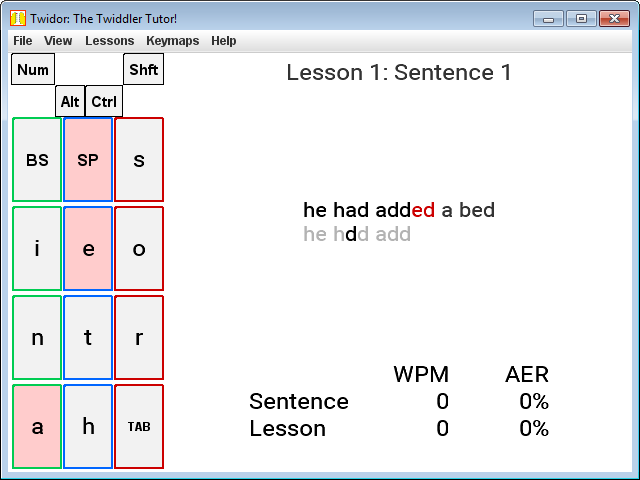
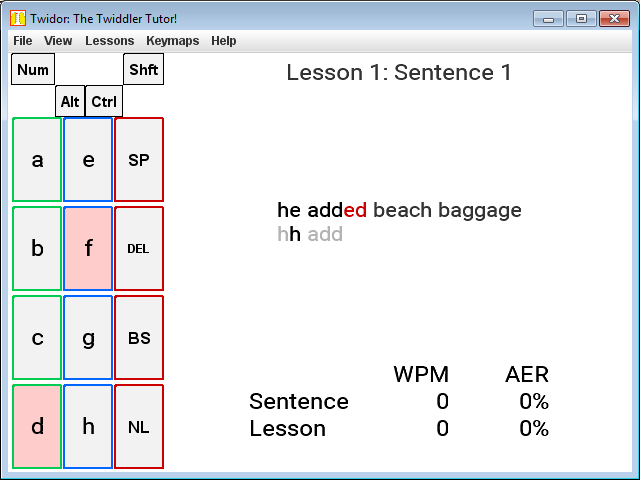
simplify singe/SCC/MCC illustration

diff --git a/src/FingerPanel.java b/src/FingerPanel.java
@@ -39,6 +39,7 @@ import java.awt.*;
 import javax.swing.*;
 import javax.swing.border.Border;
 import java.util.Vector;
+import java.util.HashMap;
 import java.net.URL;
 import java.lang.Math;
 
@@ -65,8 +66,7 @@ public class FingerPanel extends TwiddlerSubPanel implements  TwidorConstants {
 			font = FONT_KEYPAD;
 		if( foreground == null )
 			foreground = TEXT_DEFAULT;
-		JLabel label;
-		label = new JLabel(text);
+		JLabel label = new JLabel(text);
 		label.setFont(font);
 		label.setForeground(foreground);
 		label.setBackground(Color.WHITE);
@@ -91,7 +91,7 @@ public class FingerPanel extends TwiddlerSubPanel implements  TwidorConstants {
 	 * @param boolean the orientation
 	 * @param KeyMap the KeyMap to write on it
 	 */
-	public FingerPanel (boolean orient, KeyMap keys, boolean visibleKeys, boolean show2KeyChords) {
+	public FingerPanel (boolean orient, KeyMap keys, boolean visibleKeys, boolean show2KeyChords, boolean show_MCC ) {
 		if (bDEBUG) System.out.println("FingerPanel: creating panel");
 		initButtons();
 		setBackground(twiddlerBackground);
@@ -99,7 +99,7 @@ public class FingerPanel extends TwiddlerSubPanel implements  TwidorConstants {
 
 		/* horizontal direction to arrange the keys */
 		ComponentOrientation keyOrient = ComponentOrientation.RIGHT_TO_LEFT;
-		if (orient) {
+		if (! orient) {
 			keyOrient = ComponentOrientation.LEFT_TO_RIGHT;
 		}
 
@@ -119,42 +119,50 @@ public class FingerPanel extends TwiddlerSubPanel implements  TwidorConstants {
 								subPanel.setLayout(new GridLayout(4, 1, 1, 1));
 								subPanel.setBackground(twiddlerBackground);
 								for (int chordFinger = 0; chordFinger < 4; chordFinger++) { // anchor finger
-									if (finger != chordFinger) {
+									if (finger >= chordFinger) {
+										add_label( subPanel, twiddlerBackground,  FONT_KEYPAD, "z");
+									} else {
 										int buttons = KeyElement.buttonMask(finger, fingerCol);
 										buttons |= KeyElement.buttonMask(chordFinger, chordCol);
 										KeyElement keyElement = keys.getKeyByButtons(buttons);
-										// Color color = keyRed;
-										Border border = redBorder;
-										if (chordCol == 1) {
-											// color  = keyBlue;
-											border = blueBorder;
-										}
-										else if (chordCol == 2) {
-											// color  = keyGreen;
-											border = greenBorder;
-										}
-										JLabel label = new JLabel();
-										label.setFont(FONT_KEYPAD);
-										label.setHorizontalAlignment(JLabel.CENTER);
-										label.setBorder(border);
-										label.setForeground( TEXT_DEFAULT );
-										if (keyElement != null) {
-											String keyLabel = keyElement.getLabel();
-											keyLabel = keyLabel.substring(0,Math.min(3,keyLabel.length()));
-											Font font = FONT_LABEL; // length = 1
-											if (keyLabel.length() == 2) {
-												font = FONT_LABEL2;
-											} else if (keyLabel.length() > 2) {
-												font = FONT_MACRO;
-											}
-											label.setFont(font);
-											label.setText(keyLabel);
-											subPanel.add(label);
-										} else {
+										if (keyElement == null) {
 											add_label( subPanel, twiddlerBackground, FONT_KEYPAD, "");
 										}
-									} else {
-										add_label( subPanel, twiddlerBackground,  FONT_KEYPAD, "z");
+										else if ( (! show_MCC) &&
+												  ( (keyElement.getLabel().length() > 1)
+													// || ! Character.isAlphabetic(keyElement.getLabel().codePointAt(0))
+													) ) { 
+											add_label( subPanel, twiddlerBackground, FONT_KEYPAD, "");
+										} else {
+											String keyLabel = keyElement.getLabel();
+											// Color color = keyRed;
+											Border border = redBorder;
+											if (chordCol == 1) {
+												// color  = keyBlue;
+												border = blueBorder;
+											}
+											else if (chordCol == 2) {
+												// color  = keyGreen;
+												border = greenBorder;
+											}
+											JLabel label = new JLabel();
+											label.setFont(FONT_KEYPAD);
+											label.setHorizontalAlignment(JLabel.CENTER);
+											label.setBorder(border);
+											label.setForeground( TEXT_DEFAULT );
+											if (keyElement != null) {
+												keyLabel = keyLabel.substring(0,Math.min(3,keyLabel.length()));
+												Font font = FONT_LABEL; // length = 1
+												if (keyLabel.length() == 2) {
+													font = FONT_LABEL2;
+												} else if (keyLabel.length() > 2) {
+													font = FONT_MACRO;
+												}
+												label.setFont(font);
+												label.setText(keyLabel);
+												subPanel.add(label);
+											}
+										}
 									}
 								}
 								panel.add(subPanel);

diff --git a/src/Twidor.java b/src/Twidor.java
@@ -59,7 +59,7 @@ public class Twidor extends JFrame implements TwidorConstants {
 	private String currentSentence;
 	private JFileChooser fc;
 	private java.io.PrintWriter keylog;
-	private boolean twiddler_single_letter_only;
+	private boolean twiddler_show_MCC;
 
 	/**
 	 * Default Constructor.
@@ -85,7 +85,7 @@ public class Twidor extends JFrame implements TwidorConstants {
 		setTitle(windowTitle);
 		setBackground(windowBackground);
 		setResizable(windowResizable);
-		twiddler_single_letter_only = TWIDDLER_SINGLE_LETTER_ONLY;
+		twiddler_show_MCC = TWIDDLER_SHOW_MCC;
 
 		/* Root Panel Settings */
 		Container contentPane = getContentPane();
@@ -382,9 +382,9 @@ public class Twidor extends JFrame implements TwidorConstants {
 			String remainder = getSentence().substring(begin);
 
 			int limit = 0;
-			if ( twiddler_single_letter_only ) limit = 1;
+			if ( ! twiddler_show_MCC ) limit = 1;
 			match = getKeyMap().matchLargestChunk(remainder, limit);
-			if ( match == null ) { // try single capital character
+			if ( match == null ) {
 				if(Character.isUpperCase(remainder.charAt(0))) {
 					match = getKeyMap().getKey(remainder.substring(0,1).toLowerCase());
 					if ( match != null ) {
@@ -399,7 +399,6 @@ public class Twidor extends JFrame implements TwidorConstants {
 		getTwiddlerPanel().highlight(match);
 		getTypingPanel().highlight(match);
 	}
-
 	/**
 	 * sets the Input flag (whether we are recording or not)
 	 * @param boolean the new status
@@ -490,6 +489,7 @@ public class Twidor extends JFrame implements TwidorConstants {
 	public void reOrient () {
 		setVisible(false);
 		getTwiddlerPanel().reOrient();
+		getTypingPanel().remove_highlight();
 		doHighlighting();
 		pack();
 		setVisible(true);
@@ -519,8 +519,9 @@ public class Twidor extends JFrame implements TwidorConstants {
 		else if (option.equals(TWIDDLER_SHOW_THUMB_TEXT)) {
 			getTwiddlerPanel().setThumbBoardVisible(status);
 		}
-		else if (option.equals(TWIDDLER_SINGLE_LETTER_ONLY_TEXT)) {
-			twiddler_single_letter_only = status;
+		else if (option.equals(TWIDDLER_SHOW_MCC_TEXT)) {
+			twiddler_show_MCC = status;
+			getTwiddlerPanel().setShowMCC(status);
 		}
 		else if (bDEBUG) System.out.println("Unhandled option");
 

diff --git a/src/TwidorMenu.java b/src/TwidorMenu.java
@@ -80,27 +80,13 @@ public class TwidorMenu extends JMenuBar implements TwidorConstants {
 
 		Twiddler = new Vector<>();
 		menu = new JMenu("View");
-		jmItem = jcheckItem(TWIDDLER_SHOW_TEXT, TWIDDLER_SHOW);
-		Twiddler.add(jmItem);
-		menu.add(jmItem);
-		jmItem = jcheckItem(TWIDDLER_SHOW_2KEY_TEXT, TWIDDLER_SHOW_2KEY);
-		Twiddler.add(jmItem);
-		menu.add(jmItem);
-		jmItem = jcheckItem(TWIDDLER_MIRROR_TEXT, TWIDDLER_MIRROR);
-		Twiddler.add(jmItem);
-		menu.add(jmItem);
-		jmItem = jcheckItem(TWIDDLER_SHOW_LETTERS_TEXT, TWIDDLER_SHOW_LETTERS);
-		Twiddler.add(jmItem);
-		menu.add(jmItem);
-		jmItem = jcheckItem(TWIDDLER_SHOW_THUMB_TEXT, TWIDDLER_SHOW_THUMB);
-		Twiddler.add(jmItem);
-		menu.add(jmItem);
-		jmItem = jcheckItem(TWIDDLER_MIRROR_THUMB_TEXT, TWIDDLER_MIRROR_THUMB);
-		Twiddler.add(jmItem);
-		menu.add(jmItem);
-		jmItem = jcheckItem(TWIDDLER_SINGLE_LETTER_ONLY_TEXT, TWIDDLER_SINGLE_LETTER_ONLY);
-		Twiddler.add(jmItem);
-		menu.add(jmItem);
+		addJcheckItem( menu, Twiddler, TWIDDLER_SHOW_TEXT, TWIDDLER_SHOW);
+		addJcheckItem( menu, Twiddler, TWIDDLER_SHOW_THUMB_TEXT, TWIDDLER_SHOW_THUMB);
+		addJcheckItem( menu, Twiddler, TWIDDLER_SHOW_2KEY_TEXT, TWIDDLER_SHOW_2KEY);
+		addJcheckItem( menu, Twiddler, TWIDDLER_SHOW_MCC_TEXT, TWIDDLER_SHOW_MCC);
+		addJcheckItem( menu, Twiddler, TWIDDLER_SHOW_LETTERS_TEXT, TWIDDLER_SHOW_LETTERS);
+		addJcheckItem( menu, Twiddler, TWIDDLER_MIRROR_TEXT, TWIDDLER_MIRROR);
+		addJcheckItem( menu, Twiddler, TWIDDLER_MIRROR_THUMB_TEXT, TWIDDLER_MIRROR_THUMB);
 
 		add(menu);
 
@@ -157,6 +143,12 @@ public class TwidorMenu extends JMenuBar implements TwidorConstants {
 		JCheckBoxMenuItem toReturn = new JCheckBoxMenuItem(text, status);
 		toReturn.addItemListener(myEventHandler);
 		return toReturn;
+	}
+
+	private void addJcheckItem (JMenu menu, Vector <JMenuItem> menuVec, String text, boolean status) {
+		JMenuItem jmItem = jcheckItem(text, status);
+		menuVec.add(jmItem);
+		menu.add(jmItem);
 	}
 
 	/**

diff --git a/src/TwidorConstants.java b/src/TwidorConstants.java
@@ -112,7 +112,7 @@ public interface TwidorConstants {
 	/**
 	 * Files that are searched for by the program when none are specified
 	 */
-	public static final String DEFAULT_KEYMAP = KEYMAPS[0] + ".csv";
+	public static final String DEFAULT_KEYMAP = KEYMAPS[1] + ".csv";
 	public static final String DEFAULT_LESSON = "lessons.txt";
 	public static final boolean DEFAULT_THUMB_ORIENTATION = true;
 	public static final boolean DEFAULT_FINGER_ORIENTATION = true;
@@ -129,14 +129,14 @@ public interface TwidorConstants {
 	/* Twiddler */
 	public static final String TWIDDLER_SHOW_TEXT = "Show key map";
 	public boolean TWIDDLER_SHOW = true;
-	public static final String TWIDDLER_SHOW_2KEY_TEXT = "Show chords";
+	public static final String TWIDDLER_SHOW_2KEY_TEXT = "Show chord map";
 	public boolean TWIDDLER_SHOW_2KEY = false;
-	public static final String TWIDDLER_SINGLE_LETTER_ONLY_TEXT = "Hint single letters only";
-	public boolean TWIDDLER_SINGLE_LETTER_ONLY = true;
+	public static final String TWIDDLER_SHOW_MCC_TEXT = "Show multiple character chords";
+	public boolean TWIDDLER_SHOW_MCC = false;
 
 	public static final String TWIDDLER_MIRROR_TEXT = "Horizontal reverse keyboard";
 	public boolean TWIDDLER_MIRROR = false;
-	public static final String TWIDDLER_SHOW_LETTERS_TEXT = "Show labels on keyboard";
+	public static final String TWIDDLER_SHOW_LETTERS_TEXT = "Show labels on keys";
 	public boolean TWIDDLER_SHOW_LETTERS = true;
 	public static final String TWIDDLER_SHOW_THUMB_TEXT = "Show thumb buttons";
 	public boolean TWIDDLER_SHOW_THUMB = true;

diff --git a/src/TwiddlerPanel.java b/src/TwiddlerPanel.java
@@ -49,6 +49,7 @@ public class TwiddlerPanel extends TwiddlerSubPanel implements TwidorConstants {
 	private boolean showFingerMap;
 	private boolean show2KeyChords = TWIDDLER_SHOW_2KEY;
 	private boolean showTwiddler;
+	private boolean showMCC;
 	private Vector <TwiddlerSubPanel> panelList;
     private FingerPanel fingerPanel;
 	/**
@@ -204,6 +205,14 @@ public class TwiddlerPanel extends TwiddlerSubPanel implements TwidorConstants {
 	}
 
 	/**
+	 * modifier for the MCC visibility
+	 * @param KeyMap the desired KeyMap
+	 */
+	public void setShowMCC (boolean status) {
+		showMCC = status;
+	}
+
+	/**
 	 * initializer for the panel list
 	 */
 	private void initPanels () {
@@ -289,7 +298,7 @@ public class TwiddlerPanel extends TwiddlerSubPanel implements TwidorConstants {
 			getPanels().addElement(new ThumbPanel(getThumbOrientation(), getKeyMap(), getThumbKeysVisible()));
 		}
 
-		fingerPanel = new FingerPanel(getFingerOrientation(), getKeyMap(), getFingerKeysVisible(), show2KeyChords);
+		fingerPanel = new FingerPanel(getFingerOrientation(), getKeyMap(), getFingerKeysVisible(), show2KeyChords, showMCC);
 		getPanels().addElement(fingerPanel);
 
 		for (int i = 0; i < getPanels().size(); i++) {
